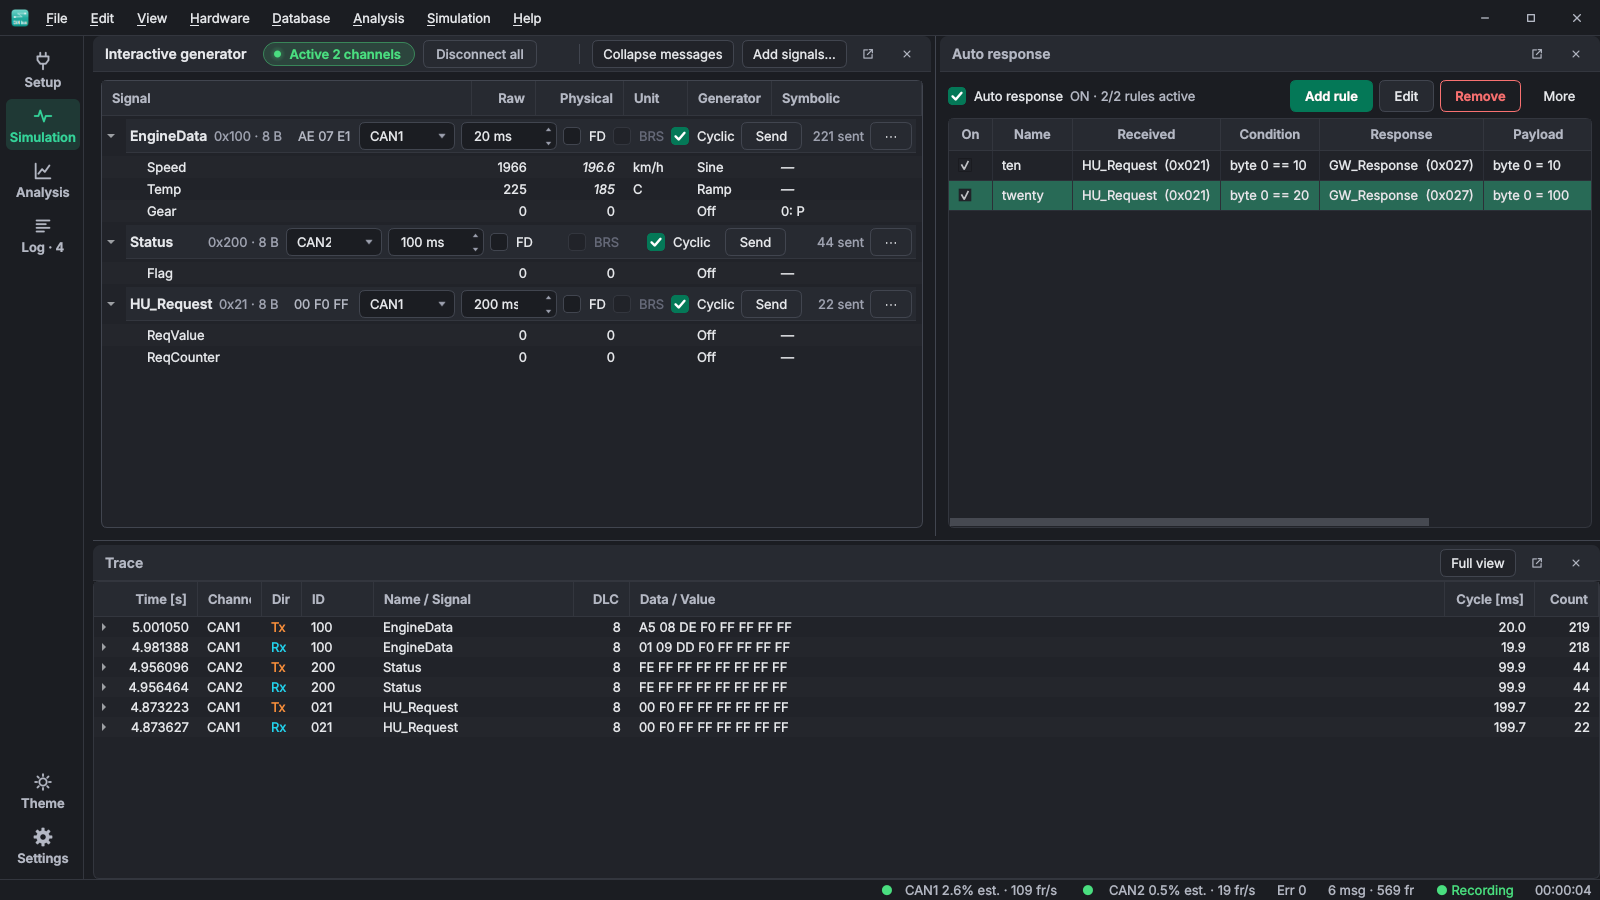
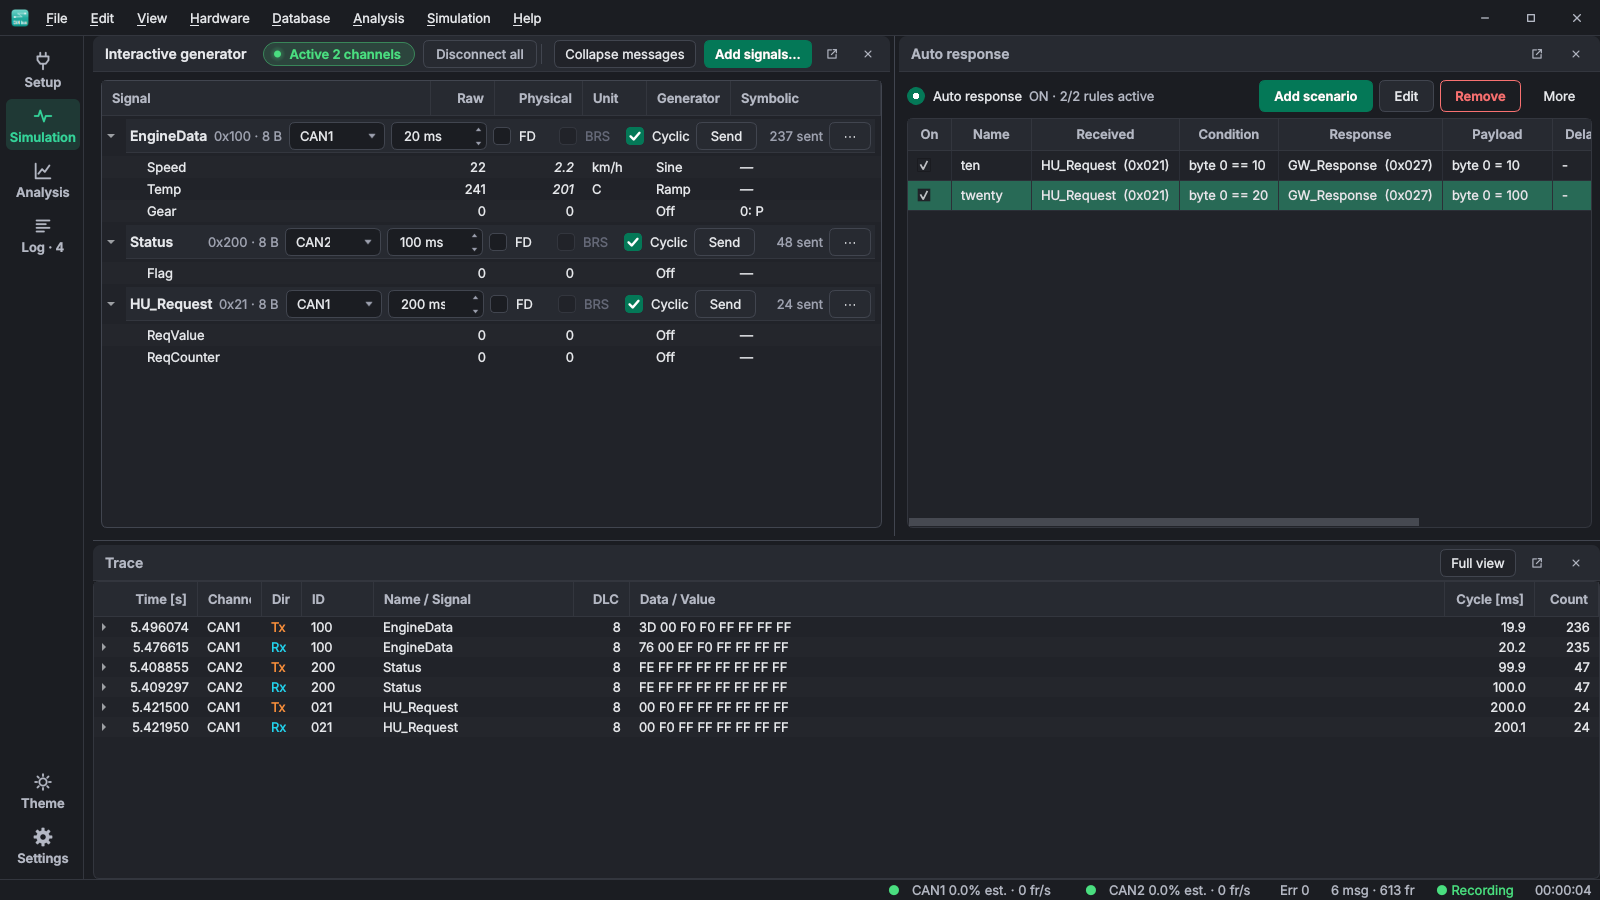
Simulation desktop: green Add signals, 'Add scenario', equal widths, Auto response radio; clear signal row highlight
- Add signals… is the green main action (like the auto response's), still a small header button
- 'Add rule' is now 'Add scenario' (desktop and web)
- Interactive generator and Auto response share the width 50 / 50 by default (desktop and web)
- the Auto response switch is a radio button (click again to turn it off)
- the selected (green) row of the signal table is cleared by a click anywhere else in the window; clicks in
  a menu, drop-down or dialog opened from the table keep it
- tests for each

Claude-Session: https://claude.ai/code/session_01QpNh95ZjJG525gSXM3h8sg

diff --git a/src/autosim/web/static/app.js b/src/autosim/web/static/app.js
@@ -632,7 +632,7 @@ const Rules = {
       ${r.disabled_reason || r.last_error ? ' style="color:var(--error)"' : ""}><td><input type="checkbox" data-on${r.enabled ? " checked" : ""}></td>
       <td>${esc(r.name)}</td><td class="mono">${esc(r.when)}${r.rx_channel ? " · " + esc(r.rx_channel) : ""}</td><td>${esc(r.condition)}</td>
       <td>${esc(r.response)}</td><td class="r">${r.delay_ms} ms</td><td class="r">${r.hits}</td></tr>`).join("")
-      : `<tr><td colspan="7" class="muted" style="text-align:center;height:60px">No rule. Rules answer received frames automatically.</td></tr>`;
+      : `<tr><td colspan="7" class="muted" style="text-align:center;height:60px">No scenario yet. Scenarios answer received frames automatically.</td></tr>`;
     $$("tr[data-i]", tb).forEach((tr) => {
       const i = +tr.dataset.i;
       $("[data-on]", tr).onchange = (e) => { const l = this.list(); l[i].enabled = e.target.checked; this.save(l); };
@@ -646,7 +646,7 @@ const Rules = {
   messages() { return DB.filter((d) => d.active).flatMap((d) => d.messages); },
   edit(i) {
     const l = this.list();
-    const r = i === undefined ? { name: `Rule ${l.length + 1}`, enabled: true, rx_channel: "", rx_id: 0, rx_extended: false, match: "any",
+    const r = i === undefined ? { name: `Scenario ${l.length + 1}`, enabled: true, rx_channel: "", rx_id: 0, rx_extended: false, match: "any",
       signal: "", op: "==", value: "0", raw_offset: 0, raw_size: 1, raw_order: "little", tx_channel: "", tx_id: 0, tx_extended: false,
       tx_fd: false, tx_brs: false, tx_mode: "raw", tx_dlc: 8, tx_data: "", tx_value: "", tx_offset: 0, tx_size: 1, tx_order: "little",
       tx_signals: {}, delay_ms: 0 } : { ...l[i] };
@@ -654,7 +654,7 @@ const Rules = {
     const chanOpts = (cur, any) => `<option value="">${any}</option>` + S.channels.map((c) => `<option${c.channel === cur ? " selected" : ""}>${esc(c.channel)}</option>`).join("");
     const msgOpts = `<option value="">(pick from the databases)</option>` + msgs.map((m) => `<option value="${esc(m.name)}">${esc(m.name)} ${idText(m.id, m.extended)}</option>`).join("");
     const hex = (v) => "0x" + (+v).toString(16).toUpperCase();
-    const o = modal(i === undefined ? "Add auto response rule" : "Edit auto response rule", `
+    const o = modal(i === undefined ? "Add auto response scenario" : "Edit auto response scenario", `
       <fieldset><legend>When</legend><div class="fg">
         <label>Name</label><input data-f="name" value="${esc(r.name)}"><label>Enabled</label><label class="chk"><input type="checkbox" data-f="enabled"${r.enabled ? " checked" : ""}>On</label>
         <label>Message received</label><select data-pick="rx">${msgOpts}</select><label>On channel</label><select data-f="rx_channel">${chanOpts(r.rx_channel, "Any channel")}</select>

diff --git a/src/autosim/web/static/app.css b/src/autosim/web/static/app.css
@@ -55,7 +55,7 @@ main { grid-row: 1; grid-column: 3; min-width: 0; min-height: 0; position: relat
 .desktop { position: absolute; inset: 0; padding: 8px; display: none; gap: 0; }
 .desktop.active { display: grid; }
 #desk-setup { grid-template-columns: var(--split, 40%) 9px 1fr; }
-#desk-simulation { grid-template-columns: var(--split, 58%) 9px 1fr; grid-template-rows: var(--vsplit, 60%) 9px 1fr; }
+#desk-simulation { grid-template-columns: var(--split, 50%) 9px 1fr; grid-template-rows: var(--vsplit, 60%) 9px 1fr; }
 #desk-simulation #trace-mini-card { grid-column: 1 / 4; }
 #desk-analysis { grid-template-columns: 1fr; }
 .divider { cursor: col-resize; position: relative; }
@@ -92,6 +92,10 @@ input[type=text], input[type=number], input:not([type]), select { height: 30px; 
 input.sm, select.sm { height: 26px; font-size: 12px; padding: 0 6px; }
 input:focus, select:focus { outline: 2px solid var(--accent); outline-offset: -1px; }
 input[type=checkbox] { accent-color: var(--accent-strong); width: 15px; height: 15px; margin: 0; }
+input.radio { appearance: none; width: 16px; height: 16px; border-radius: 50%; border: 1px solid var(--border-strong);
+  background: var(--input); cursor: pointer; }               /* a radio look; still a switch (click again: off) */
+input.radio:checked { border-color: var(--accent-strong);
+  background: radial-gradient(circle, #fff 0 36%, var(--accent-strong) 40% 100%); }
 label.chk { display: inline-flex; align-items: center; gap: 5px; cursor: pointer; }
 label.chk.dis { color: var(--disabled); cursor: default; }
 .form { display: grid; grid-template-columns: 1fr 1fr; gap: 4px 10px; align-items: end; }

diff --git a/src/autosim/web/static/index.html b/src/autosim/web/static/index.html
@@ -80,9 +80,9 @@
     </div>
     <div class="divider" data-var="--split" data-desk="desk-simulation"></div>
     <div class="card" id="auto-card">
-      <header><h2>Auto response</h2><label class="chk"><input type="checkbox" id="ar-enabled">On</label>
+      <header><h2>Auto response</h2><label class="chk" title="Answer received frames with the scenarios below (click again to turn off)"><input type="checkbox" class="radio" id="ar-enabled">On</label>
         <span class="grow"></span><button class="btn sm" id="ar-more">More ▾</button>
-        <button class="btn sm primary" id="ar-add">Add rule</button></header>
+        <button class="btn sm primary" id="ar-add">Add scenario</button></header>
       <div class="body" style="padding:0"><table class="grid" id="ar-table"><thead><tr><th style="width:38px">On</th>
         <th>Name</th><th>When</th><th>Condition</th><th>Response</th><th class="r" style="width:60px">Delay</th>
         <th class="r" style="width:56px">Hits</th></tr></thead><tbody></tbody></table></div>

diff --git a/tests/test_gui.py b/tests/test_gui.py
@@ -640,8 +640,8 @@ def test_default_desktop_layouts_and_window_detach(win, qtbot):
     win.show_desktop("Setup")                                   # Channels 4 : Database 6
     qtbot.waitUntil(lambda: abs(win.chan_card.width() / (win.chan_card.width() + win.db_card.width()) - 0.4) < 0.05,
                     timeout=3000)
-    win.show_desktop("Simulation")                              # Signals wider than Auto response, once sized
-    qtbot.waitUntil(lambda: win.signals_card.width() > win.auto_card.width(), timeout=3000)
+    win.show_desktop("Simulation")                              # generator and auto response equally wide
+    qtbot.waitUntil(lambda: abs(win.signals_card.width() - win.auto_card.width()) <= 12, timeout=3000)
     sig, auto = win.signals_card.geometry(), win.auto_card.geometry()
     assert sig.right() < auto.left()
     win.show_desktop("Analysis")
@@ -1011,7 +1011,37 @@ def test_column_titles_are_aligned_like_their_data(win):
 def test_header_buttons_look_like_buttons(win):
     for b in (win.fold_all_btn, win.add_signals_btn, win.full_view_btn, win.log_clear_btn):
         assert b.objectName() == "panel-text-btn"
+    # Add signals… is the green main action, like Add scenario of the auto response
+    assert win.add_signals_btn.property("kind") == "primary" and win.fold_all_btn.property("kind") != "primary"
+    assert win.auto_response.add_btn.text() == "Add scenario" and win.auto_response.add_btn.property("kind") == "primary"
+    from autosim.ui.theme import token
+    pal = win.add_signals_btn.palette()
+    assert pal.color(pal.ColorRole.Button).name().lower() == token("ACCENT_STRONG").lower() or \
+        'QPushButton#panel-text-btn[kind="primary"]' in __import__("PySide6.QtWidgets").QtWidgets.QApplication.instance().styleSheet()
     from PySide6.QtWidgets import QApplication
     qss = QApplication.instance().styleSheet()
     rule = qss[qss.index("QPushButton#panel-text-btn {"):].split("}")[0]
     assert "border: 1px solid" in rule and "transparent" not in rule                 # an outlined button
+
+
+def test_signal_row_highlight_clears_when_clicking_elsewhere(win, qtbot):
+    """A row selected in the signal table (green) is cleared by a click anywhere else in the window - another
+    widget or an empty area - but not by a click inside the table."""
+    from PySide6.QtCore import Qt
+    from PySide6.QtTest import QTest
+    assert win.dbc.load_file(str(DATA / "sample.dbc"))
+    win.show_desktop("Simulation")
+    card = win.signals_panel.add_message("EngineData")
+    tree = win.signals_panel.tree
+    qtbot.wait(50)
+    row = next(r for r in card.rows if r.sig.name == "Speed")
+    tree.setCurrentItem(row, 0)
+    assert tree.selectedItems() == [row]
+    other = next(r for r in card.rows if r.sig.name == "Temp")              # a click inside the table: selects
+    QTest.mouseClick(tree.viewport(), Qt.LeftButton, pos=tree.visualItemRect(other).center())
+    assert tree.selectedItems() == [other]
+    QTest.mouseClick(win.auto_response.table.viewport(), Qt.LeftButton)       # another widget: cleared
+    assert tree.selectedItems() == []
+    tree.setCurrentItem(row, 0)
+    QTest.mouseClick(win.signals_card.header, Qt.LeftButton)                  # an empty area (header): cleared
+    assert tree.selectedItems() == []

diff --git a/src/autosim/ui/panels/signal_panel.py b/src/autosim/ui/panels/signal_panel.py
@@ -13,11 +13,11 @@
 """
 from __future__ import annotations
 
-from PySide6.QtCore import QSize, Qt, QTimer, Signal
-from PySide6.QtWidgets import (QAbstractItemView, QCheckBox, QComboBox, QDialog, QDialogButtonBox, QDoubleSpinBox,
-                               QFormLayout, QFrame, QHBoxLayout, QHeaderView, QLabel, QMenu, QMessageBox, QSizePolicy,
-                               QSpinBox, QStackedWidget, QStyledItemDelegate, QToolButton, QTreeWidget,
-                               QTreeWidgetItem, QVBoxLayout, QWidget)
+from PySide6.QtCore import QEvent, QSize, Qt, QTimer, Signal
+from PySide6.QtWidgets import (QAbstractItemView, QApplication, QCheckBox, QComboBox, QDialog, QDialogButtonBox,
+                               QDoubleSpinBox, QFormLayout, QFrame, QHBoxLayout, QHeaderView, QLabel, QMenu,
+                               QMessageBox, QSizePolicy, QSpinBox, QStackedWidget, QStyledItemDelegate, QToolButton,
+                               QTreeWidget, QTreeWidgetItem, QVBoxLayout, QWidget)
 
 from autosim.core.can_engine.generators import PARAM_LABELS, make_generator
 from autosim.ui.widgets import EmptyState, centered, set_kind
@@ -640,6 +640,17 @@ class SignalTree(QTreeWidget):
             self.headerItem().setTextAlignment(c, Qt.AlignRight | Qt.AlignVCenter)
         self.setMinimumWidth(615)                          # a compact message row (name + controls) fits
         self.setItemDelegate(SignalDelegate(self))
+        QApplication.instance().installEventFilter(self)  # a click elsewhere clears the selected row
+
+    def eventFilter(self, obj, e) -> bool:
+        """Clicking anywhere else in the window (another widget or an empty area) clears the selection, like a
+        normal table: the green row does not stay behind. Clicks in a menu, a drop-down or a dialog opened from
+        the table (other top-level windows) keep it, they act on that row."""
+        if e.type() == QEvent.MouseButtonPress and isinstance(obj, QWidget) and self.selectedItems():
+            if obj.window() is self.window() and obj is not self and not self.isAncestorOf(obj) \
+                    and self.state() != QAbstractItemView.EditingState:
+                self.clearSelection()
+        return False
 
     def keyPressEvent(self, e) -> None:
         it = self.currentItem()

diff --git a/src/autosim/ui/panels/auto_response_panel.py b/src/autosim/ui/panels/auto_response_panel.py
@@ -2,7 +2,7 @@
 the rule editor dialog. The rules live in the engine (core/can_engine/auto_response.py); this panel edits them,
 shows how often each one fired, and persists them (QSettings between runs, and in the project file).
 
-Typical use (Android VHAL bridge): load the DBC, press *Add rule*, pick the request message the head unit sends
+Typical use (Android VHAL bridge): load the DBC, press *Add scenario*, pick the request message the head unit sends
 (e.g. HU_Request 0x021), condition *Signal value* ReqValue == 10, response GW_Response 0x027 with RespValue = 10;
 a second rule ReqValue == 20 -> RespValue = 100; switch *Auto response* on.
 """
@@ -29,6 +29,7 @@ from PySide6.QtWidgets import (
     QMenu,
     QMessageBox,
     QPushButton,
+    QRadioButton,
     QSizePolicy,
     QSpinBox,
     QStackedWidget,
@@ -520,12 +521,13 @@ class AutoResponsePanel(QWidget):
         super().__init__(parent)
         self.ctx = ctx
         self.responder = ctx.can.responder
-        self.master = QCheckBox("Auto response")
+        self.master = QRadioButton("Auto response")       # a radio look, but a switch: click again to turn off
+        self.master.setAutoExclusive(False)
         self.master.setObjectName("auto-response-master")
         self.master.setToolTip("Answer received frames with the rules below (rules are checked on every channel)")
         self.state = QLabel()
         self.state.setProperty("role", "caption")
-        self.add_btn = QPushButton("Add rule")
+        self.add_btn = QPushButton("Add scenario")
         self.add_btn.setToolTip("When a frame is received (e.g. 0x21 with value 10), send a response "
                                 "(e.g. 0x27 with value 10). With a DBC, pick messages and signals by name.")
         set_kind(self.add_btn, "primary")

diff --git a/src/autosim/ui/main_window.py b/src/autosim/ui/main_window.py
@@ -231,6 +231,8 @@ class MainWindow(QMainWindow):
         self.mini_trace_card.header.accessory.addWidget(self.full_view_btn)
         self.add_signals_btn = QPushButton("Add signals…")
         self.add_signals_btn.setObjectName("panel-text-btn")
+        from autosim.ui.widgets import set_kind
+        set_kind(self.add_signals_btn, "primary")               # the main action of the Simulation desktop
         self.add_signals_btn.setToolTip("Pick messages / signals from the databases in use")
         self.add_signals_btn.clicked.connect(lambda: self.add_signals_dialog())
         self.signals_card.header.accessory.addWidget(self.add_signals_btn)
@@ -314,7 +316,7 @@ class MainWindow(QMainWindow):
         a, b = docks[:2]
         if name == "Simulation":                         # Signals | Auto response (top) over the Trace
             ws.resizeDocks([a, docks[2]], [int(h * 0.6), int(h * 0.4)], Qt.Vertical)
-        left = SETUP_SPLIT if name == "Setup" else 0.56
+        left = SETUP_SPLIT if name == "Setup" else 0.5             # Simulation: generator = auto response
         first = max(int(w * left), a.widget().minimumSizeHint().width() + 24)
         ws.resizeDocks([a, b], [first, max(240, w - first)], Qt.Horizontal)
         self._sized.add(name)

diff --git a/src/autosim/ui/styles/themes.py b/src/autosim/ui/styles/themes.py
@@ -116,6 +116,11 @@ QPushButton#panel-text-btn {
 QPushButton#panel-text-btn:hover { background: @SURFACE_3@; border-color: @BORDER_HOVER@; }
 QPushButton#panel-text-btn:pressed { background: @SURFACE_2@; }
 QPushButton#panel-text-btn:focus { border: 2px solid @FOCUS_RING@; padding: 0 9px; }
+/* the header's main action (Add signals…): green like the other primary buttons (Add scenario), same small size */
+QPushButton#panel-text-btn[kind="primary"] { background: @ACCENT_STRONG@; color: @ON_ACCENT@;
+    border-color: @ACCENT_STRONG@; font-weight: 600; }
+QPushButton#panel-text-btn[kind="primary"]:hover { background: @ACCENT_STRONG_HOVER@; border-color: @ACCENT_STRONG_HOVER@; }
+QPushButton#panel-text-btn[kind="primary"]:pressed { background: @ACCENT_STRONG_PRESSED@; border-color: @ACCENT_STRONG_PRESSED@; }
 QToolButton#msg-fold { padding: 0; min-width: 24px; max-width: 24px; min-height: 24px; max-height: 24px; border: none; }
 QToolButton#msg-fold:hover { background: @ROW_HOVER@; }
 QToolButton#panel-btn { min-height: 22px; max-height: 22px; min-width: 22px; padding: 0 4px; border-radius: @R_SM@; }

diff --git a/tests/test_gui_auto_response.py b/tests/test_gui_auto_response.py
@@ -63,6 +63,12 @@ def test_panel_is_a_window_on_the_simulation_desktop(win):
     win.show_desktop("Simulation")
     p = win.auto_response
     assert not p.master.isChecked() and not win.ctx.can.responder.enabled
+    from PySide6.QtWidgets import QRadioButton
+    assert isinstance(p.master, QRadioButton) and not p.master.autoExclusive()   # a radio that also turns off
+    p.master.click()
+    assert p.master.isChecked() and win.ctx.can.responder.enabled
+    p.master.click()                                                             # second click: off again
+    assert not p.master.isChecked() and not win.ctx.can.responder.enabled
     assert p.table.rowCount() == 0 and not hasattr(p, "empty")       # no help text: a clean, empty table
     assert "0/0" in p.state.text()
 

diff --git a/docs/ANDROID_BRIDGE.md b/docs/ANDROID_BRIDGE.md
@@ -129,7 +129,7 @@ switches all rules on / off):
 
 - **Auto response** (check box): the master switch. Rules apply to frames **received** on any channel (bridge,
   ESP32, CANable, SIM).
-- **Add rule / Edit / Remove**, and **More → Duplicate rule, Reset hit counters, Import rules…, Export rules…**.
+- **Add scenario / Edit / Remove**, and **More → Duplicate rule, Reset hit counters, Import rules…, Export rules…**.
   The **On** box of a row switches one rule. **Hits** counts the answers sent.
 - Rules are saved automatically (they are there after a restart) and in project files (*File → Save project*).
 

diff --git a/docs/USER_GUIDE.md b/docs/USER_GUIDE.md
@@ -118,7 +118,7 @@ to see each channel, its port and its state. **Collapse messages** folds every m
 
 Rules answer received frames automatically. A typical use is an Android head unit asking for a value.
 
-**Add rule** opens the editor:
+**Add scenario** opens the editor:
 
 | Part | Options |
 |---|---|
